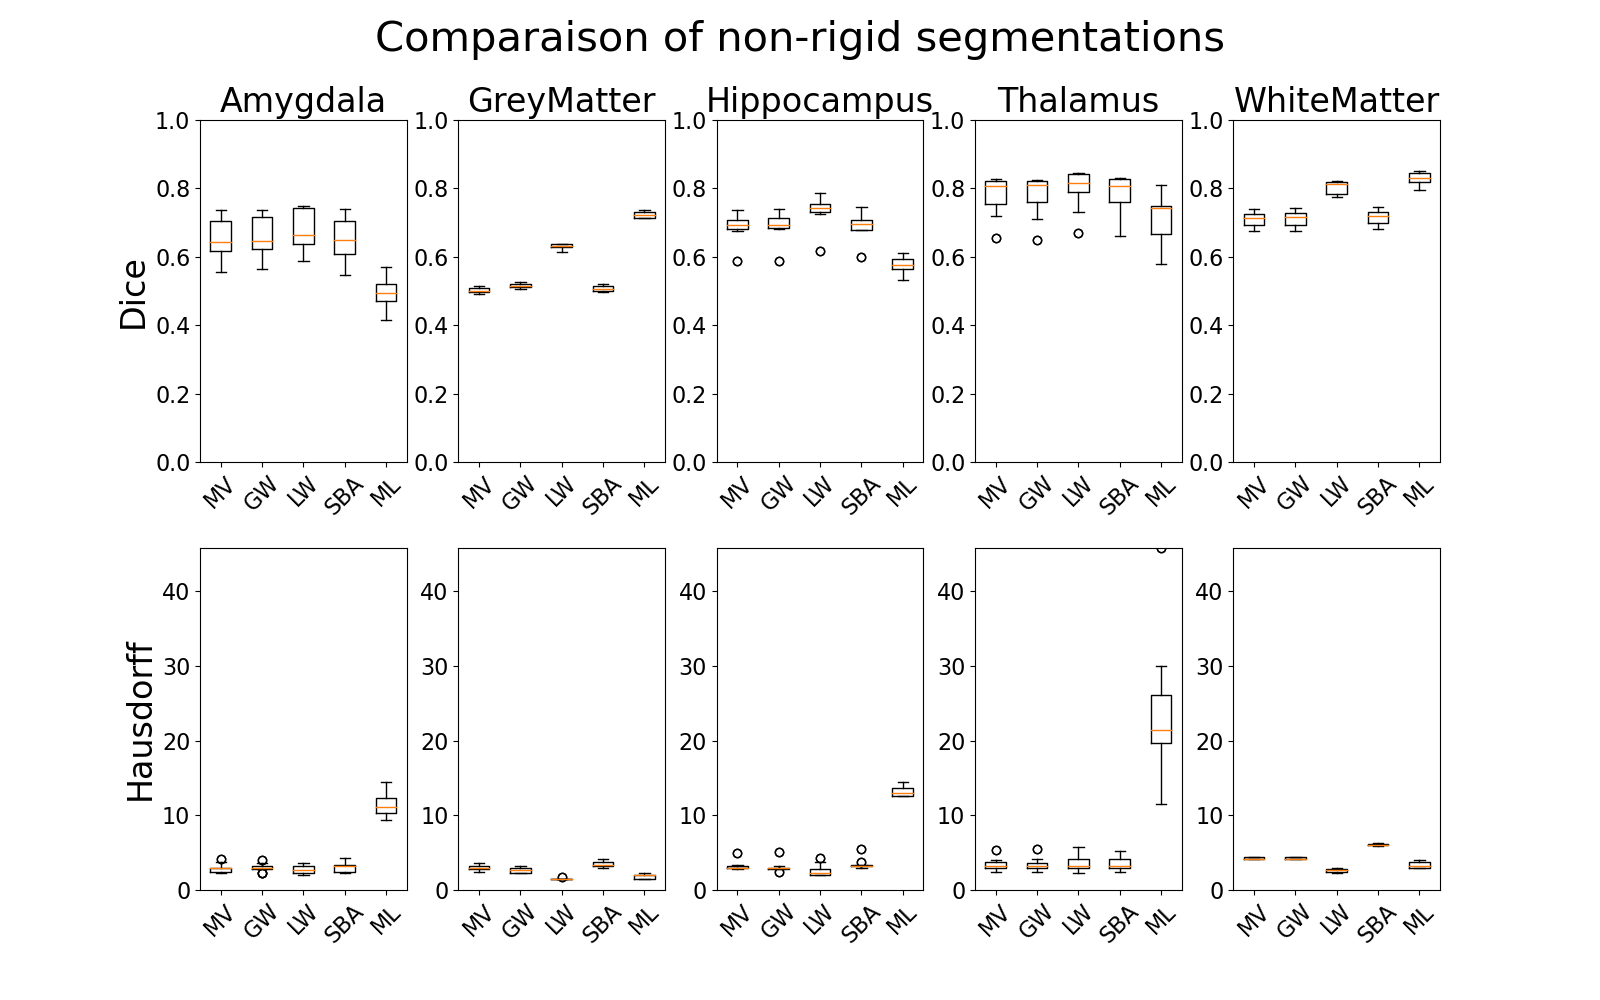
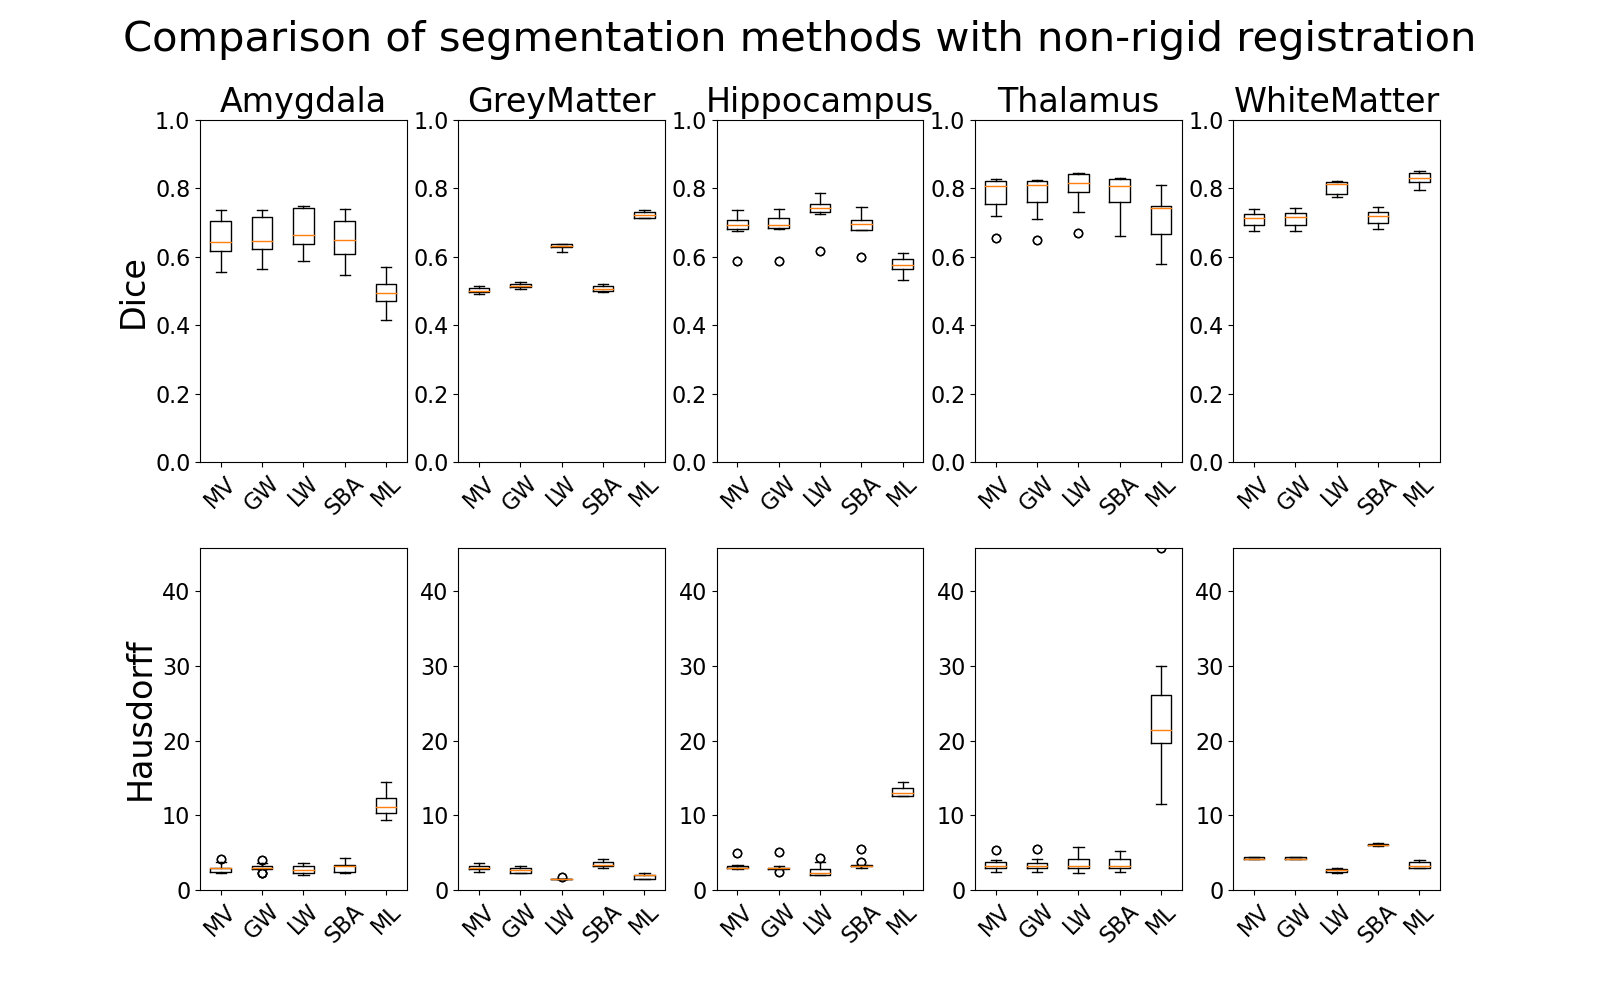
improved titles of boxplots

Changed region(s): [[0.0625, 0.0, 0.9375, 0.062]]

diff --git a/bin/boxplot.py b/bin/boxplot.py
@@ -49,15 +49,15 @@ def boxplot(repos, x_labels, title="", filename="boxplot", show=False):
 def main():
     reposNR = ["AB_Affine_MV", "AB_Affine_GW", "AB_Affine_LW", "AB_Affine_SBA", "ML_Affine"]
     x_labelsNR = ["MV", "GW", "LW", "SBA", "ML"]
-    boxplot(reposNR, x_labelsNR, "Comparaison of affine segmentations", "boxplot_Affine_all")
+    boxplot(reposNR, x_labelsNR, "Comparison of segmentation methods with affine registration", "boxplot_Affine_all")
 
     reposAffine = ["AB_Non_Rigid_MV", "AB_Non_Rigid_GW", "AB_Non_Rigid_LW", "AB_Non_Rigid_SBA", "ML_Non_Rigid"]
     x_labelsAffine = ["MV", "GW", "LW", "SBA", "ML"]
-    boxplot(reposAffine, x_labelsAffine, "Comparaison of non-rigid segmentations", "boxplot_NR_all")
+    boxplot(reposAffine, x_labelsAffine, "Comparison of segmentation methods with non-rigid registration", "boxplot_NR_all")
 
     reposComp = ["AB_Non_Rigid_MV", "AB_Affine_MV", "ML_Non_Rigid", "ML_Affine"]
     x_labelsComp = ["MV NR", "MV Aff", "ML NR", "ML Aff"]
-    boxplot(reposComp, x_labelsComp, "Comparaison between non-rigid and affine registration", "boxplotComparisonNRAff")
+    boxplot(reposComp, x_labelsComp, "Comparison between non-rigid and affine registration", "boxplotComparisonNRAff")
 
 
 if __name__ == '__main__':
